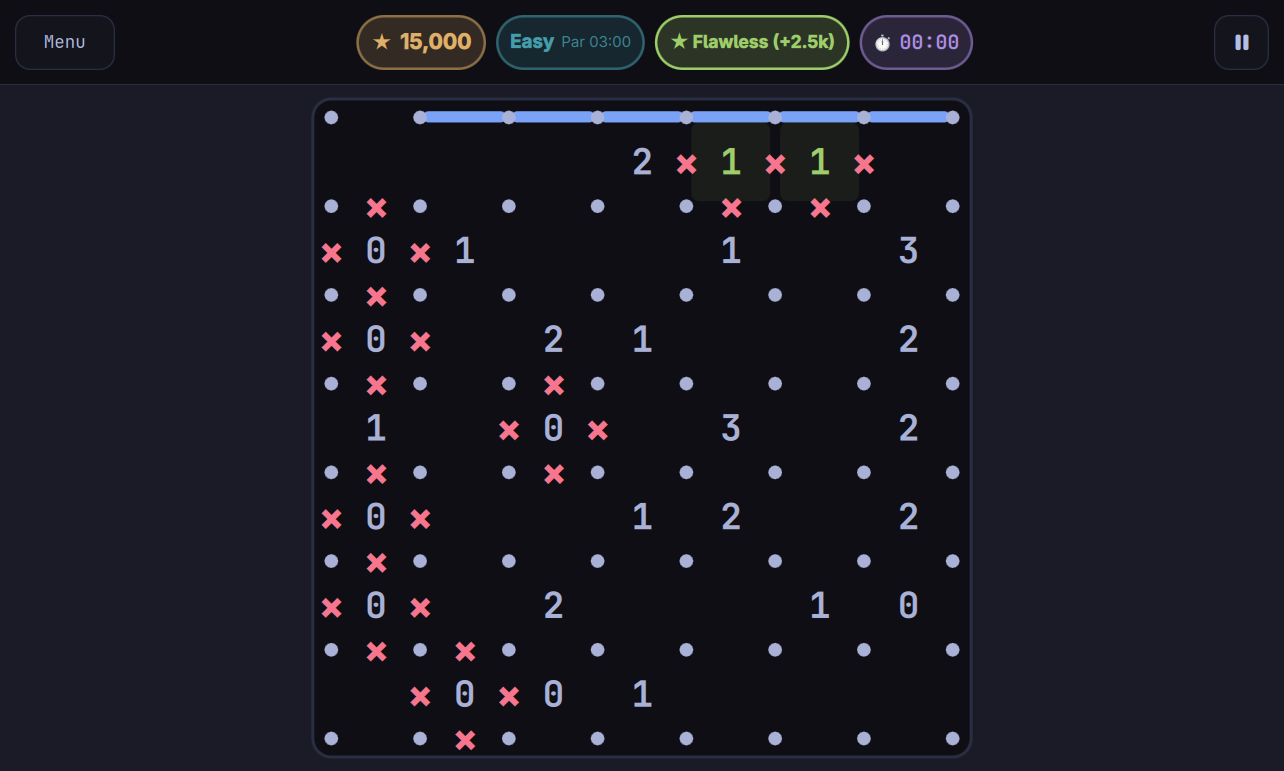
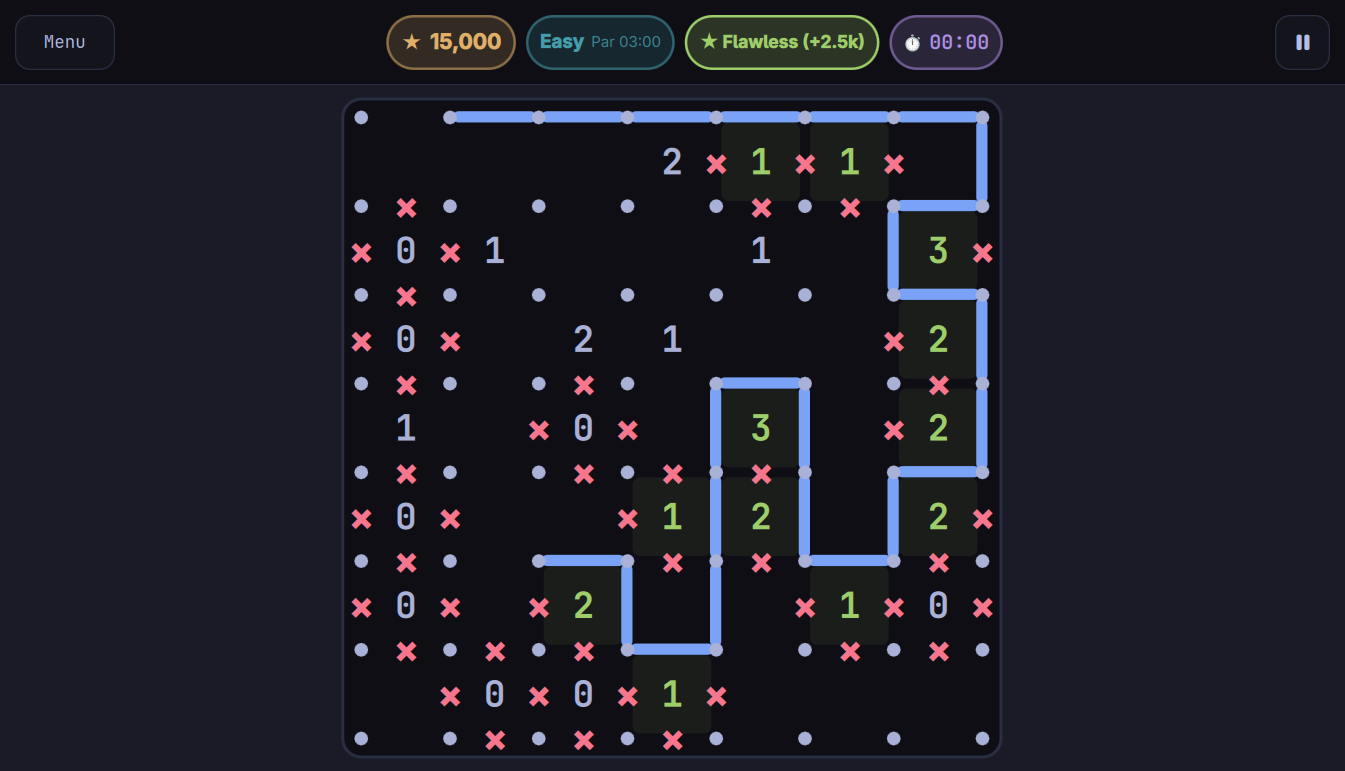
Update screenshot and site preview with strictly valid Slitherlink states

diff --git a/site/index.html b/site/index.html
@@ -202,7 +202,7 @@
                             <text x="120" y="40" fill="#929bbd">1</text>
                             <text x="160" y="80" fill="#565f89">0</text>
                             <text x="200" y="120" fill="#7dcfff">2</text>
-                            <text x="160" y="160" fill="#e0af68">3</text>
+                            <text x="160" y="160" fill="#7dcfff">2</text>
                             <text x="120" y="200" fill="#7dcfff">2</text>
                             <text x="200" y="200" fill="#565f89">0</text>
                           </g>

diff --git a/cpp/main.cpp b/cpp/main.cpp
@@ -101,22 +101,18 @@ int main(int argc, char *argv[])
             root->setProperty("currentView", QStringLiteral("welcome"));
         } else {
             root->setProperty("currentView", QStringLiteral("game"));
-            game.startNewGame(QStringLiteral("easy"));
+            game.startNewGame(QStringLiteral("easy"), 1);
 
-            // Make a few valid moves so the screenshot shows active lines and score
-            int linesPlaced = 0;
-            for (int i = 0; i < game.totalEdges(); ++i) {
-                if (game.solutionRaw()[i] == 1) {
-                    game.toggleEdge(i, 1);
-                    if (++linesPlaced >= 6) break;
-                }
+            // Connect a continuous, strictly valid path along the true solution
+            const int path[] = {1, 2, 3, 4, 5, 6, 63, 13, 70, 20, 79, 87, 34, 94, 40, 93, 85, 25, 84, 92, 100, 45, 99, 37};
+            for (int e : path) {
+                game.toggleEdge(e, 1);
             }
-            // Also auto-cross a 0 if present
+            // Auto-cross 0 clues
             for (int r = 0; r < game.rows(); ++r) {
                 for (int c = 0; c < game.cols(); ++c) {
                     if (game.clues()[r * game.cols() + c].toInt() == 0) {
                         game.clickCellClue(r, c);
-                        break;
                     }
                 }
             }

diff --git a/cpp/game.cpp b/cpp/game.cpp
@@ -43,13 +43,13 @@ void SlitherlinkGame::onSecondTick()
     emit scoreChanged();
 }
 
-void SlitherlinkGame::startNewGame(const QString &difficultyKey)
+void SlitherlinkGame::startNewGame(const QString &difficultyKey, int puzzleIndex)
 {
     m_difficulty = Difficulty::fromKey(difficultyKey);
     m_grid.rows = m_difficulty.rows;
     m_grid.cols = m_difficulty.cols;
 
-    const SlitherlinkPuzzle p = PuzzleBank::getPuzzle(m_difficulty.key);
+    const SlitherlinkPuzzle p = PuzzleBank::getPuzzle(m_difficulty.key, puzzleIndex);
     m_clues = p.clues;
     m_solution = p.solution;
     m_edges.fill(0, m_grid.numEdges());

diff --git a/cpp/game.h b/cpp/game.h
@@ -84,7 +84,7 @@ public:
     void onWon();
 
 public slots:
-    void startNewGame(const QString &difficultyKey);
+    Q_INVOKABLE void startNewGame(const QString &difficultyKey, int puzzleIndex = -1);
     void resumeGame();
     void pauseGame();
     void resumeTimer();
